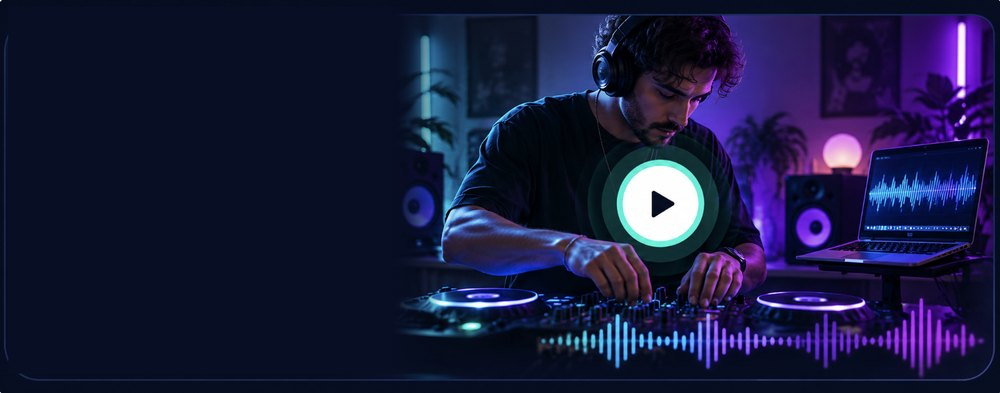
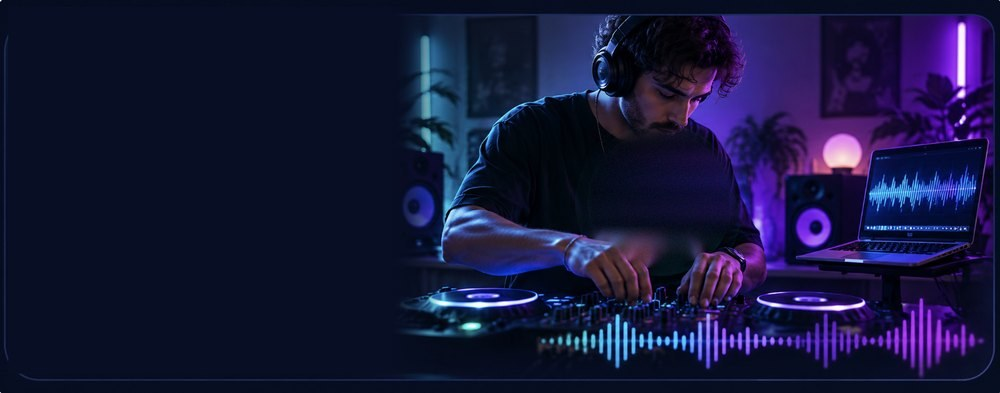
Accueil : bannière carte néon « Direct autour de moi » et bannière Check-in qui défile ; bannière live sans le bouton lecture
Claude-Session: https://claude.ai/code/session_01Hjmg7gRRsZsPr1ncWHLACm

Changed region(s): [[0.589, 0.3359, 0.744, 0.6718]]

diff --git a/app.js b/app.js
@@ -2248,8 +2248,8 @@
   // Chaque ligne garde le bandeau tel quel ; au-dessus, la bande aéroport : heure, porte (le lieu), statut.
   const CK_RAYONS = [10, 20, 30, 40, 50, 60, 70, 80, 90, 100];
   state.ckRayon = store.get('ckRayon', 50);
-  function renderCheckin() {
-    const box = $('#screen-checkin'); if (!box) return;
+  function renderCheckin(lignesSeules) {
+    const box = $('#screen-checkin'); if (!box && !lignesSeules) return;
     // Position : le GPS du téléphone ; pour tester ailleurs, ?position=dubai (ou ibiza, miami, mykonos, tulum) dans l'adresse
     const posTest = (location.search.match(/[?&]position=([a-z]+)/) || [])[1], destTest = posTest && DEST[posTest];
     const r = state.ckRayon, c = destTest ? destTest.centre : (state.maPos ? [state.maPos.lat, state.maPos.lng] : DEST.local.centre), now = Date.now();
@@ -2306,6 +2306,7 @@
         <div class="ck-bande"><span class="ck-h">${flap(o.heure, 5)}</span><span class="ck-porte"><small>Porte</small>${esc(o.porte)}</span><span class="ck-st ck-st-${o.st[1]}"><i></i>${esc(o.st[0])}</span></div>
         <button class="fil-item k-${o.k}${v ? ' a-vis' : ''}" ${o.attr}>${v}<span class="fil-l1"><em class="fil-tag ${o.k}">${o.tag}</em><b>${esc(o.nom)}</b>${o.l1 ? `<span class="fil-t">${o.l1}</span>` : ''}</span><span class="fil-l2">${o.l2.filter((x) => x && x[0]).map((x) => `<span${x[1] ? ` class="${x[1]}"` : ''}>${x[0]}</span>`).join('')}</span></button></div>`; };
     const i = CK_RAYONS.indexOf(r);
+    if (lignesSeules) return L.map(rangee);
     box.innerHTML = `<div class="ck-tete"><div><h2>Check-in</h2><small>Départs autour de ${esc(nomPos)} · <b>${r} km</b> · ${L.length} départ${L.length > 1 ? 's' : ''}</small></div><span class="ck-horloge">${flap(hm(now), 5)}</span></div>
       <div class="fd-rail ck-rail"><input type="range" id="fader-ck" min="0" max="${CK_RAYONS.length - 1}" step="1" value="${i}" style="--pct:${i / (CK_RAYONS.length - 1) * 100}%" aria-label="Rayon du check-in" aria-valuetext="${r} kilomètres">
         <div class="fd-graduations" aria-hidden="true">${CK_RAYONS.map((k, j) => `<span class="${j === i ? 'on' : ''}" data-ck-rayon="${j}">${k}</span>`).join('')}</div></div>
@@ -3853,6 +3854,44 @@ ${x.djs ? (() => { const d = x.djs.toUpperCase().replace(/[^\p{L}\p{N}' &+,.-]/g
   const toastFil2 = (m) => toast(m);
   let filToastT = 0; const toastFil = (m) => { if (Date.now() - filToastT > 4000) { filToastT = Date.now(); toast(m); } };
 
+  // ---- Essai (prototype) : bannières « carte satellite de jour » et « Check-in » à la place de la mini-carte de l'accueil
+  const BC_COTE = "M633.3 -9.8 L633.3 264.4 L633.3 264.4 L633.3 167.8 L610.5 170.6 L580.5 170.6 L562.5 131.0 L520.5 121.0 L466.5 124.4 L424.5 101.2 L430.5 87.9 L430.5 71.5 L436.5 61.5 L406.5 61.5 L382.5 64.8 L334.5 87.9 L358.5 97.9 L382.5 141.0 L412.5 150.8 L454.5 167.4 L436.5 183.9 L394.5 180.6 L346.5 180.6 L328.5 187.2 L292.5 236.8 L232.5 217.0 L184.5 187.2 L172.5 167.4 L202.5 147.5 L232.5 127.7 L220.5 114.4 L202.5 104.6 L172.5 97.9 L166.5 81.5 L160.5 68.1 L136.5 64.8 L100.5 64.8 L28.5 35.1 L10.5 -7.8 L8.7 -9.8 Z";
+  const BC_PTS = [["dj", "nina-sol", 420.0, 86.2, "live"], ["dj", "kenzo-b", 430.0, 96.0, "live"], ["dj", "marco-vela", 446.7, 113.6, "decl"], ["dj", "lia-k", 348.3, 166.5, "live"], ["dj", "dax-volt", 550.8, 77.2, "decl"], ["lieu", "beach", 458.3, 121.4, ""], ["lieu", "beach", 340.0, 176.2, ""], ["lieu", "beach", 566.7, 137.1, ""], ["lieu", "pool", 500.0, 127.3, ""], ["lieu", "bar", 406.7, 80.3, ""], ["lieu", "bar", 375.0, 103.8, ""], ["lieu", "club", 441.7, 72.5, ""], ["lieu", "club", 300.0, 58.8, ""], ["spot", "", 440.0, 105.8, ""], ["spot", "", 416.7, 150.8, ""]];
+  function bannieresDirect() {
+    const img = (k, n) => k === 'dj' ? `pins-dj/${n}.png` : k === 'spot' ? PIN_INCONNU : `pins-lieux/${n}.png`;
+    const halo = { live: '#F2C53A', decl: '#FF8A3D', '': '#3DD6C6' };
+    const pins = BC_PTS.slice().sort((p, q) => p[3] - q[3]).map(([k, n, x, y, s], i) => `${k === 'dj' && s === 'live' ? `<circle class="bc-onde" cx="${x}" cy="${y}" r="14" fill="none" stroke="${halo[s]}" stroke-width="2" style="animation-delay:${(i % 5) * .35}s"/>` : ''}<ellipse cx="${x}" cy="${y}" rx="8" ry="2.6" fill="${k === 'spot' ? '#B58CFF' : halo[s] || '#3DD6C6'}" opacity=".7"/><image href="${img(k, n)}" x="${x - 15}" y="${y - 33}" width="30" height="33"/>`).join('');
+    // Carte façon jeu vidéo néon, aux couleurs de Banzic : bleu nuit, routes et côte turquoise / violet / orange
+    const carte = `<svg class="bc-svg" viewBox="0 0 600 235" preserveAspectRatio="xMidYMid slice" aria-hidden="true">
+      <defs>
+        <radialGradient id="bc-mer" cx="70%" cy="80%" r="90%"><stop offset="0" stop-color="#14205A"/><stop offset="1" stop-color="#070B22"/></radialGradient>
+        <pattern id="bc-grille" width="22" height="22" patternUnits="userSpaceOnUse"><path d="M22 0H0V22" fill="none" stroke="#3DD6C6" stroke-opacity=".07" stroke-width="1"/></pattern>
+        <pattern id="bc-ilots" width="16" height="16" patternUnits="userSpaceOnUse" patternTransform="rotate(18)"><rect x="2" y="2" width="9" height="9" rx="1.5" fill="#1C1F4A"/></pattern>
+        <filter id="bc-neon" x="-20%" y="-20%" width="140%" height="140%"><feGaussianBlur stdDeviation="3" result="b"/><feMerge><feMergeNode in="b"/><feMergeNode in="SourceGraphic"/></feMerge></filter>
+        <clipPath id="bc-clip"><path d="${BC_COTE}"/></clipPath>
+      </defs>
+      <rect width="600" height="235" fill="url(#bc-mer)"/><rect width="600" height="235" fill="url(#bc-grille)"/>
+      <path d="${BC_COTE}" fill="#10132E"/>
+      <g clip-path="url(#bc-clip)"><rect width="600" height="235" fill="url(#bc-ilots)"/>
+        <g fill="none" stroke-linecap="round" filter="url(#bc-neon)">
+          <path d="M40 40 Q200 80 340 58 T620 72" stroke="#FF4FA3" stroke-width="2.6"/>
+          <path d="M120 0 Q260 90 430 30 T600 20" stroke="#B58CFF" stroke-width="1.8"/>
+          <path d="M380 0 L420 120 L470 235" stroke="#FF8A3D" stroke-width="2"/>
+          <path d="M240 235 Q300 120 380 95" stroke="#3DD6C6" stroke-width="1.4" stroke-opacity=".8"/></g></g>
+      <path d="${BC_COTE}" fill="none" stroke="#3DD6C6" stroke-width="2.2" filter="url(#bc-neon)" stroke-opacity=".9"/>
+      ${pins}</svg>`;
+    // Check-in : les vraies lignes de la page Check-in (mêmes bandes, mêmes couleurs), qui défilent
+    let rows = []; try { rows = renderCheckin(true) || []; } catch (e) { rows = []; }
+    rows = rows.map((r) => r.replace(/<button /g, '<span ').replace(/<\/button>/g, '</span>').replace(/data-(lieu|dj-pro|spot-voir)=/g, 'data-x-$1='));
+    const lignes = rows.concat(rows).join('');
+    return `<button class="ag-banniere bc-banniere" data-tab="map" aria-label="Ouvrir la carte : ce qui se passe autour de toi">${carte}
+        <span class="bc-badge"><i></i>Samedi 15 août · 16:00</span>
+        <span class="ag-txt bc-txt"><small class="ag-kick bc-kick"><span class="ico-diffusion" aria-hidden="true"><i></i><b></b><b></b></span>${esc(state.zoneGeo.nom)}</small><b class="ag-titre">Direct<br>autour de moi</b><span class="ag-sous">Toute la journée sur la carte : DJ en live, beach clubs, bars</span></span></button>
+      <button class="ag-banniere bk-banniere" data-tab="checkin" aria-label="Ouvrir le Check-in : les départs de la journée">
+        <span class="ag-txt bk-txt"><small class="ag-kick">Check-in</small><b class="ag-titre">Les départs<br>du jour</b><span class="ag-sous">${rows.length} départs autour de toi, rangés par distance</span></span>
+        <span class="bk-tableau"><span class="bk-horloge">${flap(hm(Date.now()), 5)}</span><span class="bk-piste" style="--duree:${Math.max(10, rows.length * 3.2)}s">${lignes}</span></span></button>`;
+  }
+
   function renderAccueil() {
     if (state.pageMontent) { renderPageMontent(); return; }
     if (state.pageTendance) { renderPageTendance(); return; }
@@ -3896,8 +3935,9 @@ ${x.djs ? (() => { const d = x.djs.toUpperCase().replace(/[^\p{L}\p{N}' &+,.-]/g
         return `<button class="fil-item k-spot a-vis" data-spot-voir="${sp.id}">${visSpotC(sp)}<span class="fil-l1"><em class="fil-tag spot">Spot</em><b>${esc(sp.nom || TYPES_SPOT[sp.type])}</b><span class="fil-vaut v-${v[1]}">${v[0]}</span></span><span class="fil-l2"><span>${esc(sp.dj || 'DJ inconnu')} · ${fmtKm(dist)}</span><span>signalé à ${hm(sp.t)} par @${esc(sp.par || 'un Banger')}</span></span></button>`; }));
     coin.slice(0, 14).forEach(({ l, d }) => filItems.push(filClub(l, fmtKm(d))));
     const filInfos = filItems.length ? `<div class="fil-infos" aria-label="Fil d'actualité autour de moi"><div class="fil-fenetre"><div class="fil-piste">${filItems.join('<span class="fil-sep" aria-hidden="true"></span>')}<span class="fil-sep" aria-hidden="true"></span><span class="fil-copie" aria-hidden="true">${filItems.join('<span class="fil-sep"></span>')}<span class="fil-sep"></span></span></div></div></div>` : '';
-    h += `<section class="acc-rub"><div class="acc-tete"><div><h2 class="h-direct"><span class="ico-diffusion" aria-hidden="true"><i></i><b></b><b></b></span>Direct autour de moi</h2><small>${esc(state.zoneGeo.nom)}${state.zoneGeo.approx ? ' · position de démo' : ''} · passe le doigt sur un point</small></div></div>
-      <div class="aut-carte">${carteMiniMap(centre0, decls, spotsP, coin, infos)}</div>${legende}${filInfos}</section>`;
+    const essaiB = document.documentElement.classList.contains('essai-bannieres');
+    h += `<section class="acc-rub">${essaiB ? '' : `<div class="acc-tete"><div><h2 class="h-direct"><span class="ico-diffusion" aria-hidden="true"><i></i><b></b><b></b></span>Direct autour de moi</h2><small>${esc(state.zoneGeo.nom)}${state.zoneGeo.approx ? ' · position de démo' : ''} · passe le doigt sur un point</small></div></div>`}
+      ${essaiB ? bannieresDirect() : `<div class="aut-carte">${carteMiniMap(centre0, decls, spotsP, coin, infos)}</div>${legende}${filInfos}`}</section>`;
     // 1 bis. Agenda autour de moi : de petites cartes par type de sortie, avec le nombre de dates dans le rayon de l'Agenda
     const rayonAg = RAYONS[state.rayonIdx], dansRayon = soireesAvecKm().filter((x) => x.km <= rayonAg);
     const nbType = (k) => k === 'tout' ? dansRayon.length : dansRayon.filter((x) => (x.type || 'club') === k).length;
@@ -3922,7 +3962,7 @@ ${x.djs ? (() => { const d = x.djs.toUpperCase().replace(/[^\p{L}\p{N}' &+,.-]/g
     const puces = `<div class="genre-puces">${['', ...genres].map((g) => `<button class="genre-puce${(state.genreLive || '') === g ? ' on' : ''}" data-genre-live="${esc(g)}" style="--gc:${g ? coulGenre(g) : '#C9CFDD'}">${g ? esc(g) : 'Tous'}</button>`).join('')}</div>`;
     // Bannière « Les DJ en live » (visuel fourni par Antonio, textes dans la police de l'appli) : un appui ouvre tous les lives disponibles
     h += `<section class="acc-rub ag-rub"><button class="ag-banniere live-banniere" data-live-tous="1" aria-label="Les DJ en live : écouter un live">
-        <img src="live-banniere.jpg?v=1" alt="" loading="lazy">
+        <img src="live-banniere.jpg?v=3" alt="" loading="lazy">
         <span class="ag-txt"><small class="ag-kick lv-kick"><i></i>En direct</small><b class="ag-titre">Les DJ<br>en live</b><span class="ag-sous">Leurs sets, où que tu sois.</span>
           <span class="ag-compte">${lives.length} DJ en live en ce moment</span></span></button></section>`;
     // La rubrique « DJ live dans le monde » (titre, styles, lecteurs) est retirée de l'accueil : la bannière ci-dessus ouvre tous les lives

diff --git a/style.css b/style.css
@@ -2527,3 +2527,43 @@ nav.tabs .tab.casque-banger svg.cb-svg { width: 104px !important; height: 80px !
 .ag-banniere::before { content: ''; position: absolute; inset: 0; z-index: 0; background: linear-gradient(90deg, rgba(5,10,28,.85) 0%, rgba(5,10,28,.6) 38%, rgba(5,10,28,0) 58%); pointer-events: none; }
 .ag-banniere img { z-index: 0; } .ag-banniere .ag-txt { z-index: 1; }
 .ag-banniere .lv-kick { color: #fff; }
+
+/* Essai : bannière carte satellite de jour + bannière Check-in animée */
+.bc-banniere { margin-top: 8px; }
+.bc-svg { position: absolute; inset: 0; width: 100%; height: 100%; }
+.bc-banniere::before { background: linear-gradient(90deg, rgba(5,10,28,.78) 0%, rgba(5,10,28,.45) 32%, rgba(5,10,28,0) 52%); }
+.bc-txt { width: 40% !important; }
+.bc-banniere .ag-titre { font-size: 20px !important; }
+.bc-onde { transform-box: fill-box; transform-origin: center; animation: bc-onde 2s ease-out infinite; }
+@keyframes bc-onde { 0% { transform: scale(.4); opacity: 1; } 100% { transform: scale(1.6); opacity: 0; } }
+.bc-badge { position: absolute; z-index: 1; right: 10px; top: 10px; display: inline-flex; align-items: center; gap: 6px; padding: 4px 9px; border-radius: 999px; background: rgba(5,10,28,.7); color: #fff; font: 700 10.5px 'DM Sans', sans-serif; backdrop-filter: blur(4px); }
+.bc-badge i { width: 7px; height: 7px; border-radius: 50%; background: #FF3B4E; animation: fil-pt .8s ease-in-out infinite alternate; }
+.bk-banniere { margin-top: 12px; background: radial-gradient(circle at 80% 20%, rgba(242,197,58,.18), transparent 50%), linear-gradient(135deg, #0B1230, #070A18); }
+.bk-txt { width: 42% !important; }
+.bk-banniere .ag-kick { color: #F2C53A; }
+.bk-tableau { position: absolute; z-index: 1; right: 8px; top: 10px; bottom: 10px; width: 54%; overflow: hidden; border-radius: 10px; background: #050812; border: 1px solid rgba(255,255,255,.08); -webkit-mask-image: linear-gradient(transparent, #000 14%, #000 86%, transparent); mask-image: linear-gradient(transparent, #000 14%, #000 86%, transparent); }
+.bk-piste { display: flex; flex-direction: column; animation: bk-defile 14s linear infinite; }
+@keyframes bk-defile { from { transform: translateY(0); } to { transform: translateY(-50%); } }
+.bk-l { display: grid; grid-template-columns: auto 1fr; grid-template-rows: auto auto; column-gap: 6px; padding: 5px 7px; border-bottom: 1px solid rgba(255,255,255,.06); font: 600 9.5px 'DM Sans', sans-serif; color: #C9CFDD; }
+.bk-h { grid-row: 1 / span 2; align-self: center; font-size: 9px; color: #F2C53A; }
+.bk-h .fl { width: .95em; }
+.bk-p { white-space: nowrap; overflow: hidden; text-overflow: ellipsis; text-transform: uppercase; letter-spacing: .03em; color: #fff; }
+.bk-dj { display: none; }
+.bk-l .ck-st { grid-column: 2; justify-self: start; margin-top: 2px; padding: 1px 5px; font-size: 8px; }
+@media (prefers-reduced-motion: reduce) { .bk-piste, .bc-onde { animation: none; } }
+
+.bc-banniere::before { background: linear-gradient(90deg, rgba(5,10,28,.92) 0%, rgba(5,10,28,.8) 30%, rgba(5,10,28,0) 50%) !important; }
+.bc-banniere .bc-svg { z-index: 0; } .bc-banniere::before { z-index: 1 !important; } .bc-banniere .ag-txt, .bc-banniere .bc-badge { z-index: 2; }
+
+/* Essai v2 : titre « Direct autour de moi » dans la bannière carte ; Check-in avec les vraies lignes */
+.bc-kick { display: inline-flex; align-items: center; gap: 6px; color: #fff !important; letter-spacing: .12em; }
+.bc-kick .ico-diffusion { width: 20px; height: 20px; }
+.bc-kick .ico-diffusion i { width: 7px; height: 7px; }
+.bc-banniere .ag-titre { font-size: 23px !important; }
+.bc-banniere::before { background: linear-gradient(90deg, rgba(5,8,26,.9) 0%, rgba(5,8,26,.7) 30%, rgba(5,8,26,0) 50%) !important; }
+.bk-banniere { background: linear-gradient(135deg, #0B0F1C, #070A14); border: 1px solid rgba(255,255,255,.07); }
+.bk-tableau { top: 8px; bottom: 8px; width: 56%; background: #070A14; }
+.bk-horloge { position: absolute; z-index: 2; right: 6px; top: 4px; font-size: 9px; color: #F2C53A; }
+.bk-piste { animation-duration: var(--duree, 20s); gap: 6px; padding: 18px 5px 0; }
+.bk-piste .ck-ligne { zoom: .5; flex: none; }
+.bk-piste .ck-ligne .fil-item { pointer-events: none; }

diff --git a/index.html b/index.html
@@ -5,12 +5,12 @@
 <meta name="viewport" content="width=device-width,initial-scale=1,viewport-fit=cover">
 <meta name="theme-color" content="#070B18">
 <title>Banzic</title>
-<script>document.documentElement.classList.add('compact')</script>
+<script>document.documentElement.classList.add('compact', 'essai-bannieres')</script>
 <link rel="preconnect" href="https://fonts.googleapis.com">
 <link rel="preconnect" href="https://fonts.gstatic.com" crossorigin>
 <link href="https://fonts.googleapis.com/css2?family=Outfit:wght@300;400;500;600;700&family=Syne:wght@600;700;800&family=DM+Sans:wght@400;500;700&display=swap" rel="stylesheet">
 <link rel="stylesheet" href="leaflet.css">
-<link rel="stylesheet" href="style.css?v=1792429891">
+<link rel="stylesheet" href="style.css?v=1792429921">
 <style>html,body{height:100%;margin:0;background:#070B18}</style>
 </head>
 <body>
@@ -206,7 +206,7 @@
 
 </div>
 <script src="leaflet.js"></script>
-<script src="i18n.js?v=1792429891"></script>
+<script src="i18n.js?v=1792429921"></script>
 <script src="data.js?v=1792112000"></script>
 <script src="saison2025.js?v=1792112000"></script>
 <script src="destinations.js?v=3"></script>
@@ -226,7 +226,7 @@
   <script src="photos-villes.js?v=1"></script>
   <script src="photos-lieux-illus.js?v=2"></script>
 <script src="djmag2026.js?v=1"></script>
-<script src="app.js?v=1792429891"></script>
+<script src="app.js?v=1792429921"></script>
 <!-- Prototype 2 : pop-up « Deviens membre » désactivée -->
 </body>
 </html>
